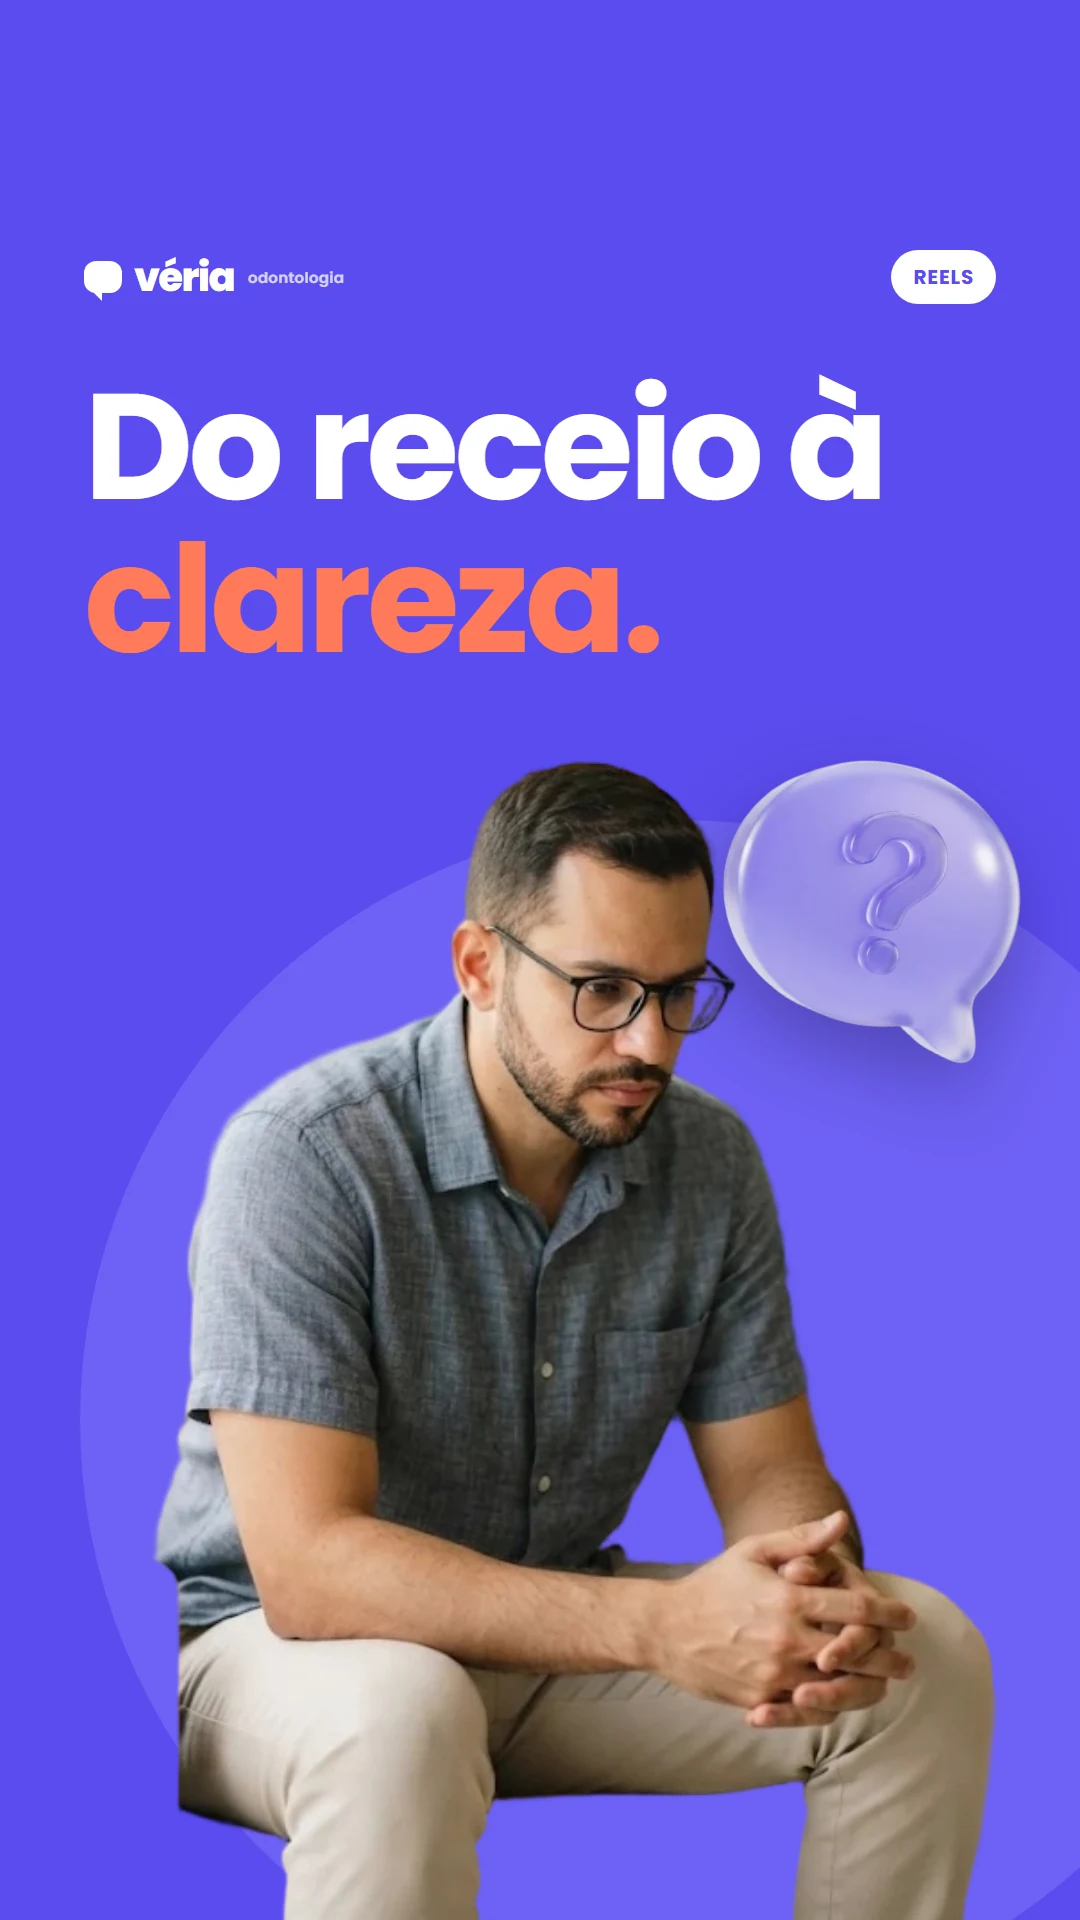
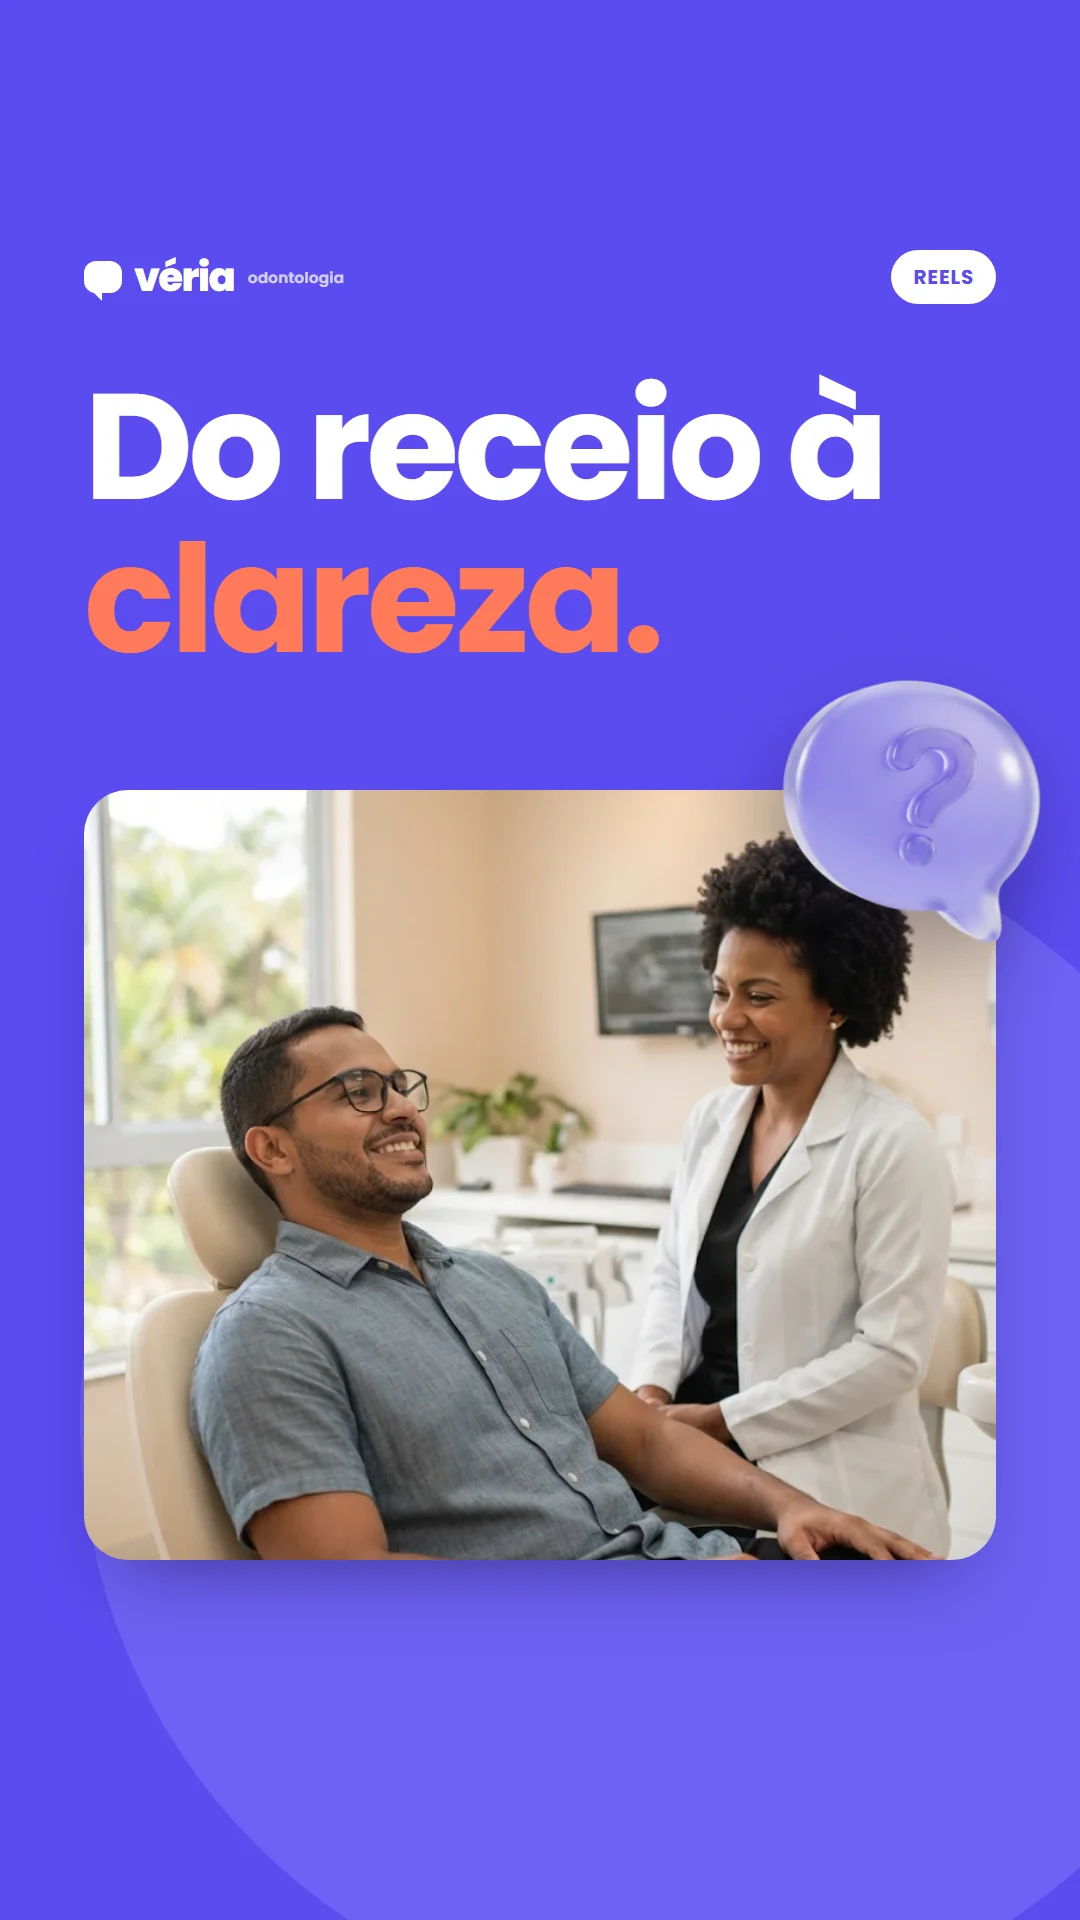
Véria: capa do Reels com a foto do paciente na cadeira

diff --git a/projetos/veria-odontologia/index.html b/projetos/veria-odontologia/index.html
@@ -117,7 +117,7 @@ a{color:inherit}
 <a href="pecas/st-07a.webp"><img src="pecas/st-07a.webp" width="1080" height="1920" loading="lazy" alt="Story violeta: Você limpa entre os dentes todos os dias? Espaço para a enquete Todo dia ou Ainda não."></a>
 <a href="pecas/st-07b.webp"><img src="pecas/st-07b.webp" width="1080" height="1920" loading="lazy" alt="Story: A escova não chega a todo lugar. O Ministério da Saúde orienta passar o fio dental entre todos os dentes, todos os dias."></a>
 <a href="pecas/st-08.webp"><img src="pecas/st-08.webp" width="1080" height="1920" loading="lazy" alt="Story com a dentista olhando para a câmera: O que você sempre quis perguntar ao dentista e nunca perguntou? Espaço para a caixa de perguntas."></a>
-<a href="pecas/reel-capa.webp"><img src="pecas/reel-capa.webp" width="1080" height="1920" loading="lazy" alt="Capa do Reels: Do receio à clareza, com um homem pensativo recortado sobre fundo violeta."></a>
+<a href="pecas/reel-capa.webp"><img src="pecas/reel-capa.webp" width="1080" height="1920" loading="lazy" alt="Capa do Reels: Do receio à clareza, sobre fundo violeta, com a foto do paciente sorrindo na cadeira enquanto conversa com a dentista."></a>
 </div></div>
 </section>
 
